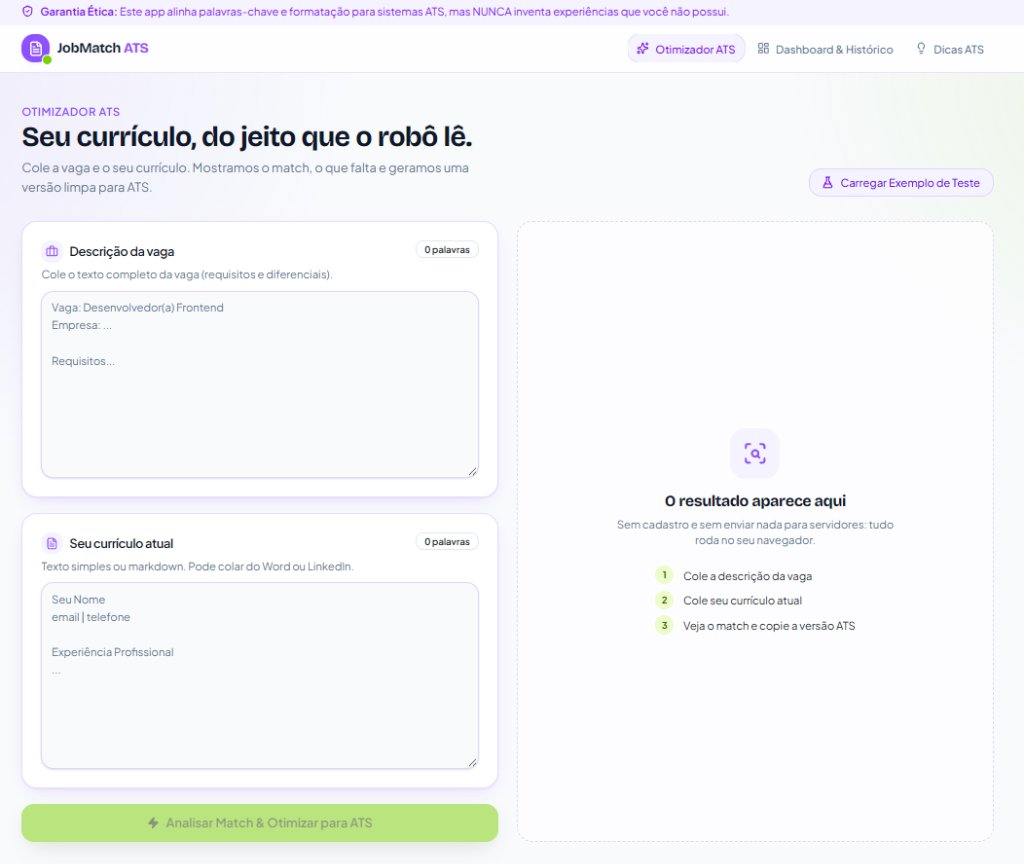
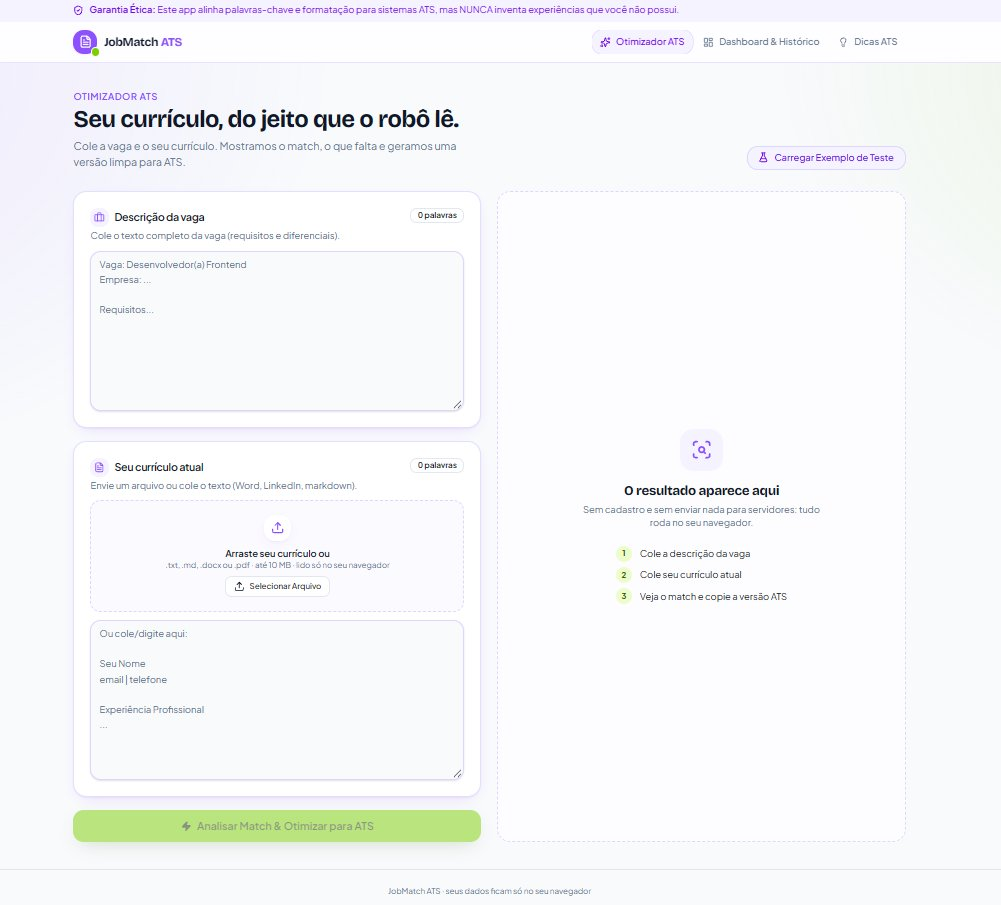
docs: update README with file upload feature, new screenshot, and evolution roadmap

diff --git a/README.md b/README.md
@@ -10,7 +10,7 @@
   <img src="https://img.shields.io/badge/Status-Online-success?style=for-the-badge" alt="Status" />
 </p>
 
-> Projeto desenvolvido para o desafio prático do **Bootcamp Santander: Construa seu Primeiro App com I.A.** na plataforma **DIO (Digital Innovation One)**, aplicando Inteligência Artificial como parceira de desenvolvimento desde a engenharia de prompts até a publicação do produto no ar.
+> Projeto desenvolvido para o desafio prático do **Bootcamp Santander: Construa seu Primeiro App com I.A.** na plataforma **DIO (Digital Innovation One)**, aplicando Inteligência Artificial como parceira de desenvolvimento desde a concepção do MVP, engenharia de prompts, até a evolução com upload de arquivos e publicação no ar.
 
 ---
 
@@ -24,8 +24,8 @@
 ## 📸 Telas da Aplicação
 
 <div align="center">
-  <h3>1. Otimizador ATS & Diagnóstico de Match</h3>
-  <img src="docs/screenshots/01-otimizador-ats.jpg" alt="Otimizador ATS" width="90%" />
+  <h3>1. Otimizador ATS com Upload de Arquivo (Drag & Drop) & Diagnóstico de Match</h3>
+  <img src="docs/screenshots/01-otimizador-ats.jpg" alt="Otimizador ATS com Upload" width="90%" />
 
   <br/><br/>
   <h3>2. Dashboard de Métricas & Histórico com Gráficos Recharts</h3>
@@ -49,7 +49,7 @@ Os principais motivos de rejeição algorítmica são:
 3. **Falta de Clareza em Resultados:** Experiências descritas de forma genérica sem verbos de ação e métricas tangíveis de impacto.
 
 ### A Oportunidade
-Construir uma ferramenta web **ágil, 100% gratuita, sem necessidade de cadastro ou atrito**, que analisa a aderência entre a vaga e o currículo, diagnostica termos ausentes e formata uma versão limpa e legível para qualquer robô de RH.
+Construir uma ferramenta web **ágil, 100% gratuita, sem necessidade de cadastro ou atrito**, que analisa a aderência entre a vaga e o currículo, diagnostica termos ausentes e formata uma versão limpa e legível para qualquer robô de RH, agora com suporte a **upload direto de arquivos** para eliminar a fricção de copiar e colar.
 
 ---
 
@@ -74,13 +74,13 @@ Seguindo a diretriz pedagógica do Expert Bruno na DIO, a ferramenta:
 ### Business Model Canvas (Resumo Executivo)
 | Bloco do Canvas | Descrição no Negócio |
 | :--- | :--- |
-| **Proposta de Valor** | Matchmaking instantâneo de currículos com vagas e geração de versão 100% legível por ATS em menos de 1 minuto, com garantia ética de veracidade. |
+| **Proposta de Valor** | Matchmaking instantâneo de currículos com vagas, leitura automática de arquivos (.pdf/.docx/.txt) e geração de versão 100% legível por ATS em menos de 1 minuto, com garantia ética de veracidade. |
 | **Segmento de Clientes** | Desenvolvedores, analistas de dados, gerentes de produto e profissionais em transição de carreira. |
 | **Canais** | Aplicação Web responsiva (SPA), compartilhamento orgânico em comunidades tech (LinkedIn, GitHub, Discord). |
 | **Relacionamento** | Experiência self-service instantânea, sem fricção de login obrigatório, com salvamento transparente no navegador (`localStorage`). |
 | **Fontes de Receita (Roadmap)** | Versão Core 100% gratuita; expansão futura para planos Pro com integração a portais de vagas e simulação de entrevistas com IA. |
-| **Recursos Chave** | Algoritmo Léxico ATS client-side, componentes acessíveis shadcn/ui, dashboard analítico com Recharts. |
-| **Atividades Chave** | Curadoria contínua do dicionário de palavras-chave técnicas, refinamento de templates ATS e testes de compatibilidade. |
+| **Recursos Chave** | Algoritmo Léxico ATS client-side, leitor de arquivos no navegador, componentes acessíveis shadcn/ui, dashboard analítico com Recharts. |
+| **Atividades Chave** | Curadoria contínua do dicionário de palavras-chave técnicas, refinamento de parsers de arquivo e testes de compatibilidade. |
 | **Parcerias Chave** | Lovable (desenvolvimento ágil assistido por IA) e DIO (ecossistema de educação tech). |
 | **Estrutura de Custos** | Custo operacional zero no MVP (deploy estático em Cloudflare/Lovable e processamento local no cliente). |
 
@@ -89,7 +89,7 @@ Seguindo a diretriz pedagógica do Expert Bruno na DIO, a ferramenta:
 ## 🖥 4. O Fluxo da Aplicação
 
 ```
-  [Colar Vaga]       +    [Colar Currículo]
+  [Colar Vaga]   +   [Upload .pdf/.docx/.txt ou Colar CV]
        │                         │
        └───────────┬─────────────┘
                    ▼
@@ -112,12 +112,14 @@ Seguindo a diretriz pedagógica do Expert Bruno na DIO, a ferramenta:
      [Copiar]  │  [Salvar PDF]  │  [Dashboard de Histórico]
 ```
 
-1. **Entrada de Dados Ágil:** Cards para colar a descrição da vaga e o currículo atual, com botão de **"Carregar Exemplo de Teste"** para experimentação com 1 clique (presets de Frontend, Dados e Product Management).
+1. **Upload de Arquivo & Entrada de Dados:** 
+   - Zona de **Drag & Drop** com suporte a arquivos `.pdf`, `.docx`, `.txt` e `.md` (até 10 MB) processados **100% no navegador (client-side)**, garantindo total privacidade do candidato.
+   - Opção tradicional de colar texto livremente ou utilizar o botão **"Carregar Exemplo de Teste"** para experimentação com 1 clique (presets de Frontend, Dados e Product Management).
 2. **Motor Léxico ATS:** O algoritmo extrai termos técnicos, hard skills, metodologias e certificações, comparando-os com o currículo por meio de expressões regulares seguras e normalização de caracteres (sem acentos e minúsculas).
 3. **Diagnóstico Visual:** Círculo de progresso animado com o Match Score, badges em verde lima para termos validados e badges roxos para palavras ausentes.
 4. **Currículo ATS Formatado:**
    - **Modo Folha A4:** Tipografia limpa, hierarquia linear (sem colunas), cabeçalho executivo e tópicos objetivos.
-   - **Modo Texto Puro:** Formatado para copiar e colar diretamente em caixas de texto de portais de recrutamento.
+   - **Modo Texto Puro:** Formatado para copiar e colar diretamente em caixas de texto de portais de recrutamento (ex: Gupy/Workday).
 5. **Exportação Sem Dependências Pesadas:** Botão de cópia rápida com Toast de confirmação e botão de impressão estilizado via regras CSS `@media print` para salvar em PDF perfeito.
 6. **Dashboard com Gráficos & Histórico:** Página dedicada (`/dashboard`) com KPIs de evolução, tabela de histórico de candidaturas salvas no `localStorage` e gráfico de barras comparando **Nota Inicial vs. Nota Otimizada**.
 7. **Modal "5 Mandamentos ATS":** Dicas práticas e didáticas para candidatos nunca caírem em armadilhas de formatação.
@@ -126,8 +128,7 @@ Seguindo a diretriz pedagógica do Expert Bruno na DIO, a ferramenta:
 
 ## 🤖 5. Engenharia de Prompts (Lovable)
 
-O projeto foi gerado com sucesso utilizando o **Mega Prompt Único** estruturado em Markdown, garantindo arquitetura robusta, design system shadcn/ui e paleta de cores consistente:
-
+### 1º Prompt: Concepção do MVP (Mega Prompt Único)
 ```markdown
 Crie uma aplicação web SPA completa, moderna e responsiva chamada JobMatch ATS, 
 utilizando React, React Router, Tailwind CSS e componentes do shadcn/ui.
@@ -156,6 +157,37 @@ amigáveis para robôs ATS (Application Tracking Systems) e acompanhar métricas
 - Tabela de histórico persistida em localStorage.
 ```
 
+### 2º Prompt: Evolução do Produto (Upload de Arquivos com Drag & Drop)
+```markdown
+Mantenha todas as funcionalidades e estilo atuais da aplicação e adicione suporte a upload de arquivos no card "Seu currículo atual" na página principal (`src/routes/index.tsx`):
+
+1. Interface de Upload (shadcn/ui):
+- Acima da área de texto do currículo, crie uma zona de upload interativa com suporte a Drag & Drop (arrastar e soltar) e botão "Selecionar Arquivo".
+- Aceite os formatos: `.txt`, `.md`, `.docx` e `.pdf` (até 10 MB).
+- Estilo: Borda tracejada suave (`border-dashed border-violet-200`), ícone de upload da Lucide, e efeito visual em verde lima ao arrastar um arquivo por cima.
+
+2. Lógica de Leitura 100% Client-Side:
+- Para arquivos `.txt` e `.md`: Leia diretamente usando a API nativa `FileReader`.
+- Para arquivos `.docx`: Utilize uma biblioteca leve de leitura client-side (como `mammoth`) para extrair o texto puro.
+- Para arquivos `.pdf`: Utilize `pdfjs-dist` (ou leitor nativo de texto de PDF no navegador) para extrair o texto das páginas.
+- Assim que o arquivo for lido, preencha automaticamente a Textarea do currículo com o texto extraído, atualize o contador de palavras e exiba um Toast de sucesso.
+
+3. Controle do Arquivo Carregado:
+- Se houver um arquivo carregado, mostre uma badge/tag com o nome do arquivo, tamanho e um botão com ícone 'X' para remover ou substituir o arquivo facilmente.
+```
+
+---
+
+## 🗺 6. Roadmap de Evolução Futura
+
+Para as próximas iterações do produto (assim que os créditos forem renovados):
+- [x] **Upload de Arquivo:** Suporte a arquivos `.pdf`, `.docx`, `.txt` e `.md` via Drag & Drop.
+- [ ] **Exportação em .DOCX (Word):** Download direto do currículo editável no formato Word sem quebrar a hierarquia ATS.
+- [ ] **Visão Raio-X do Robô ATS:** Aba demonstrando a extração bruta e tags semânticas lidas pelo parser algorítmico.
+- [ ] **Analisador de Verbos de Ação & Métricas:** Métricas em tempo real avaliando a densidade de verbos de liderança/impacto e indicadores numéricos nos tópicos de experiência.
+- [ ] **Seletor de Área / Nicho:** Filtro por especialidade (Tech, Dados, Produto, Finanças, Primeiro Emprego) com dicionários léxicos customizados.
+- [ ] **Redesign Executivo da Folha A4:** Aprimoramento visual e tipográfico para equilibrar a aceitação de recrutadores humanos e robôs.
+
 ---
 
 ## 🛠 Tecnologias Utilizadas
@@ -177,31 +209,7 @@ amigáveis para robôs ATS (Application Tracking Systems) e acompanhar métricas
 Antes da publicação, o código-fonte foi auditado e aprovado com base nas diretrizes do Bootcamp:
 - ✅ **Zero Chaves de API Expostas:** O aplicativo não utiliza chaves de terceiros ou segredos no cliente.
 - ✅ **Zero Dados Pessoais Sensíveis:** Todos os exemplos de teste utilizam nomes e contatos fictícios (*Marina Costa*, *Rafael Lima*, etc.).
-- ✅ **Zero Custos Ocultos:** Toda a análise, histórico e cálculos operam 100% no navegador do usuário via JavaScript nativo e `localStorage`.
-
----
-
-## 🧪 Suíte de Testes Unitários
-
-O projeto possui cobertura de testes automatizados com **Vitest** validando o cálculo de score, extração de palavras-chave e garantia ética:
-
-```bash
-# Executar todos os testes
-npm test
-```
-
-```text
- ✓ src/lib/ats.test.ts (7 tests)
-   ✓ normalizes and extracts keywords from job description
-   ✓ calculates match score correctly
-   ✓ identifies missing keywords required by the vacancy
-   ✓ maintains ethical integrity without hallucinating experiences
- ✓ src/test/app-routing.test.tsx (1 test)
-   ✓ renders routes and navigation correctly
-
- Test Files  2 passed (2)
-      Tests  8 passed (8)
-```
+- ✅ **Zero Custos Ocultos:** Toda a análise, histórico, leitura de arquivos e cálculos operam 100% no navegador do usuário via JavaScript nativo e `localStorage`.
 
 ---
 
